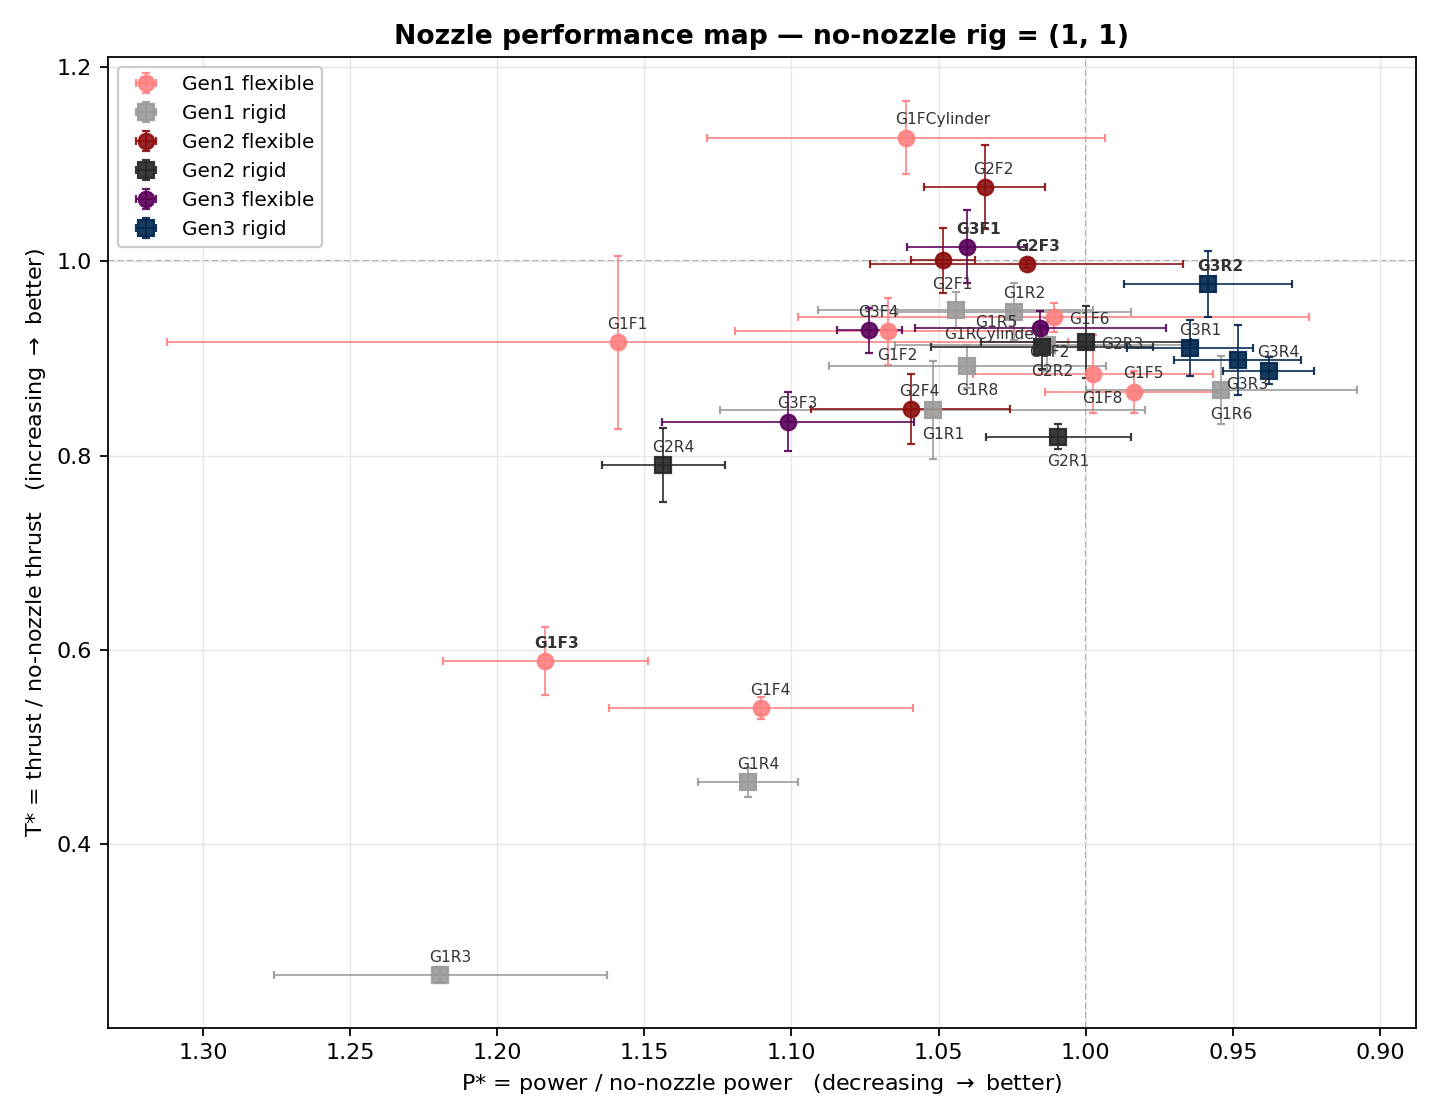
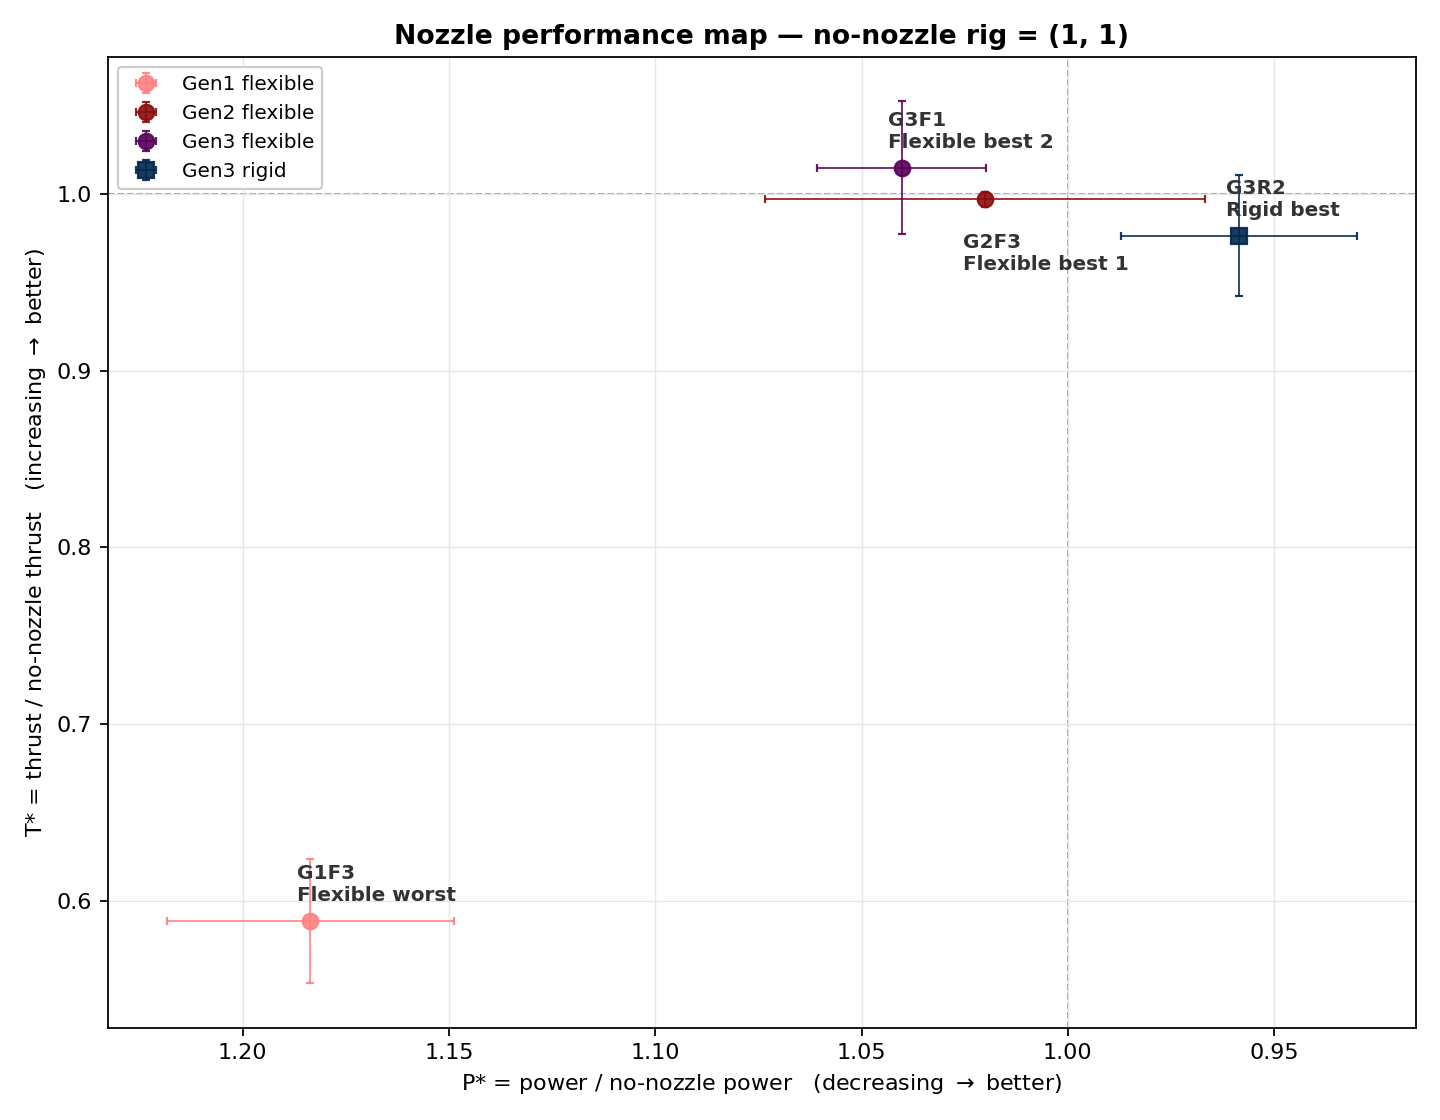
Plot only the representative shapes

diff --git a/make_plot.py b/make_plot.py
@@ -10,7 +10,8 @@ matplotlib.use("Agg")
 import matplotlib.pyplot as plt
 
 S = sys.argv[1]
-rows = list(csv.DictReader(open(f"{S}/nozzle_performance.csv")))
+rows = [r for r in csv.DictReader(open(f"{S}/nozzle_performance.csv"))
+        if r["Representative"]]        # representative shapes only
 
 STYLE = {                       # (generation, type) -> color, marker
     (1, "F"): ("#ff8080", "o"), (1, "R"): ("#9a9a9a", "s"),
@@ -26,6 +27,8 @@ ax.set_facecolor("white")
 
 for key, (color, marker) in STYLE.items():
     grp = [r for r in rows if (int(r["Generation"]), r["Type"]) == key]
+    if not grp:                                   # empty group -> no legend entry
+        continue
     ax.errorbar([float(r["P_star"]) for r in grp], [float(r["T_star"]) for r in grp],
                 xerr=[float(r["P_star_std"]) for r in grp],
                 yerr=[float(r["T_star_std"]) for r in grp],
@@ -42,30 +45,12 @@ ax.grid(True, color="0.9", linewidth=0.6)
 ax.set_axisbelow(True)
 ax.legend(loc="upper left", fontsize=9, framealpha=1)
 
-# Index labels: greedy placement — try offsets around the point, keep the first
-# that clears every label already placed. The cluster near T*~0.9 is dense enough
-# that fixed offsets become unreadable.
-OFFSETS = [(-5, 6), (-5, -13), (7, -3), (-30, -3), (7, 8), (-32, 8), (7, -13), (-32, -13)]
-fig.canvas.draw()
-renderer = fig.canvas.get_renderer()
-placed = []
-for r in sorted(rows, key=lambda r: -float(r["T_star"])):
-    x, y = float(r["P_star"]), float(r["T_star"])
-    ann = ax.annotate(r["Index"], (x, y), xytext=OFFSETS[0], textcoords="offset points",
-                      fontsize=7, color="#333333",
-                      fontweight="bold" if r["Representative"] else "normal")
-    best, best_hits = OFFSETS[0], None
-    for off in OFFSETS:
-        ann.set_position(off)
-        bb = ann.get_window_extent(renderer).expanded(1.05, 1.05)
-        hits = sum(bb.overlaps(p) for p in placed)
-        if hits == 0:
-            best, best_hits = off, 0
-            break
-        if best_hits is None or hits < best_hits:
-            best, best_hits = off, hits
-    ann.set_position(best)
-    placed.append(ann.get_window_extent(renderer).expanded(1.05, 1.05))
+OFF = {"G2F3": (-10, -32)}                        # keeps it clear of G3F1
+for r in rows:
+    ax.annotate(f"{r['Index']}\n{r['Representative']}", (float(r["P_star"]), float(r["T_star"])),
+                xytext=OFF.get(r["Index"], (-6, 9)), textcoords="offset points", fontsize=9, fontweight="bold",
+                color="#333333")
+
 fig.tight_layout()
 fig.savefig(f"{S}/performance_map.png", facecolor="white")
 print("saved", f"{S}/performance_map.png")

diff --git a/README.md b/README.md
@@ -15,10 +15,10 @@ only, with its own geometry. All were measured on a dynamometer in a water tank.
 
 ![Nozzle performance map](performance_map.png)
 
-Every measured nozzle, with error bars over the three thrust pulses. Both axes
-are ratios against the bare propeller, which sits at (1, 1). **Up and to the
-right is better** — the power axis is reversed so that less power draw points
-right. Bold labels are the representative shapes.
+The four representative shapes, with error bars over the three thrust pulses.
+Both axes are ratios against the bare propeller, which sits at (1, 1). **Up and
+to the right is better** — the power axis is reversed so that less power draw
+points right. Every measured nozzle is in the results table below.
 
 ---
 